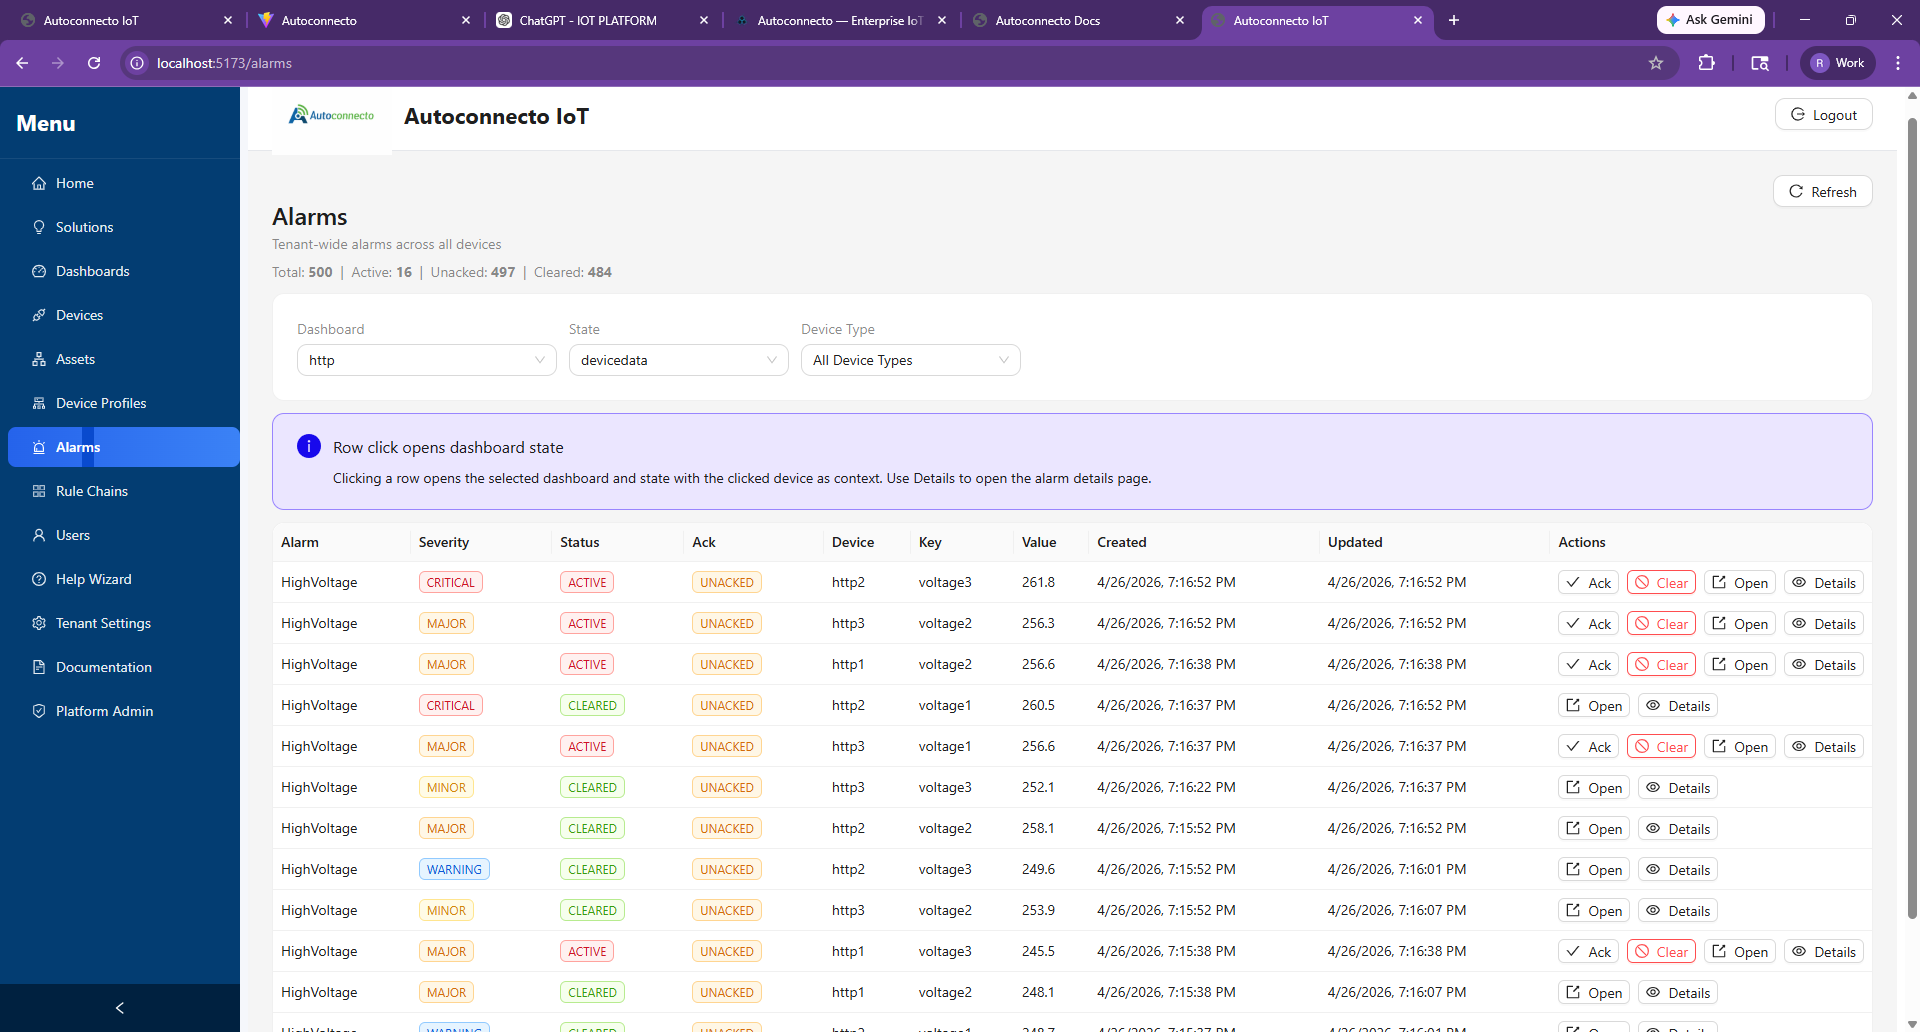
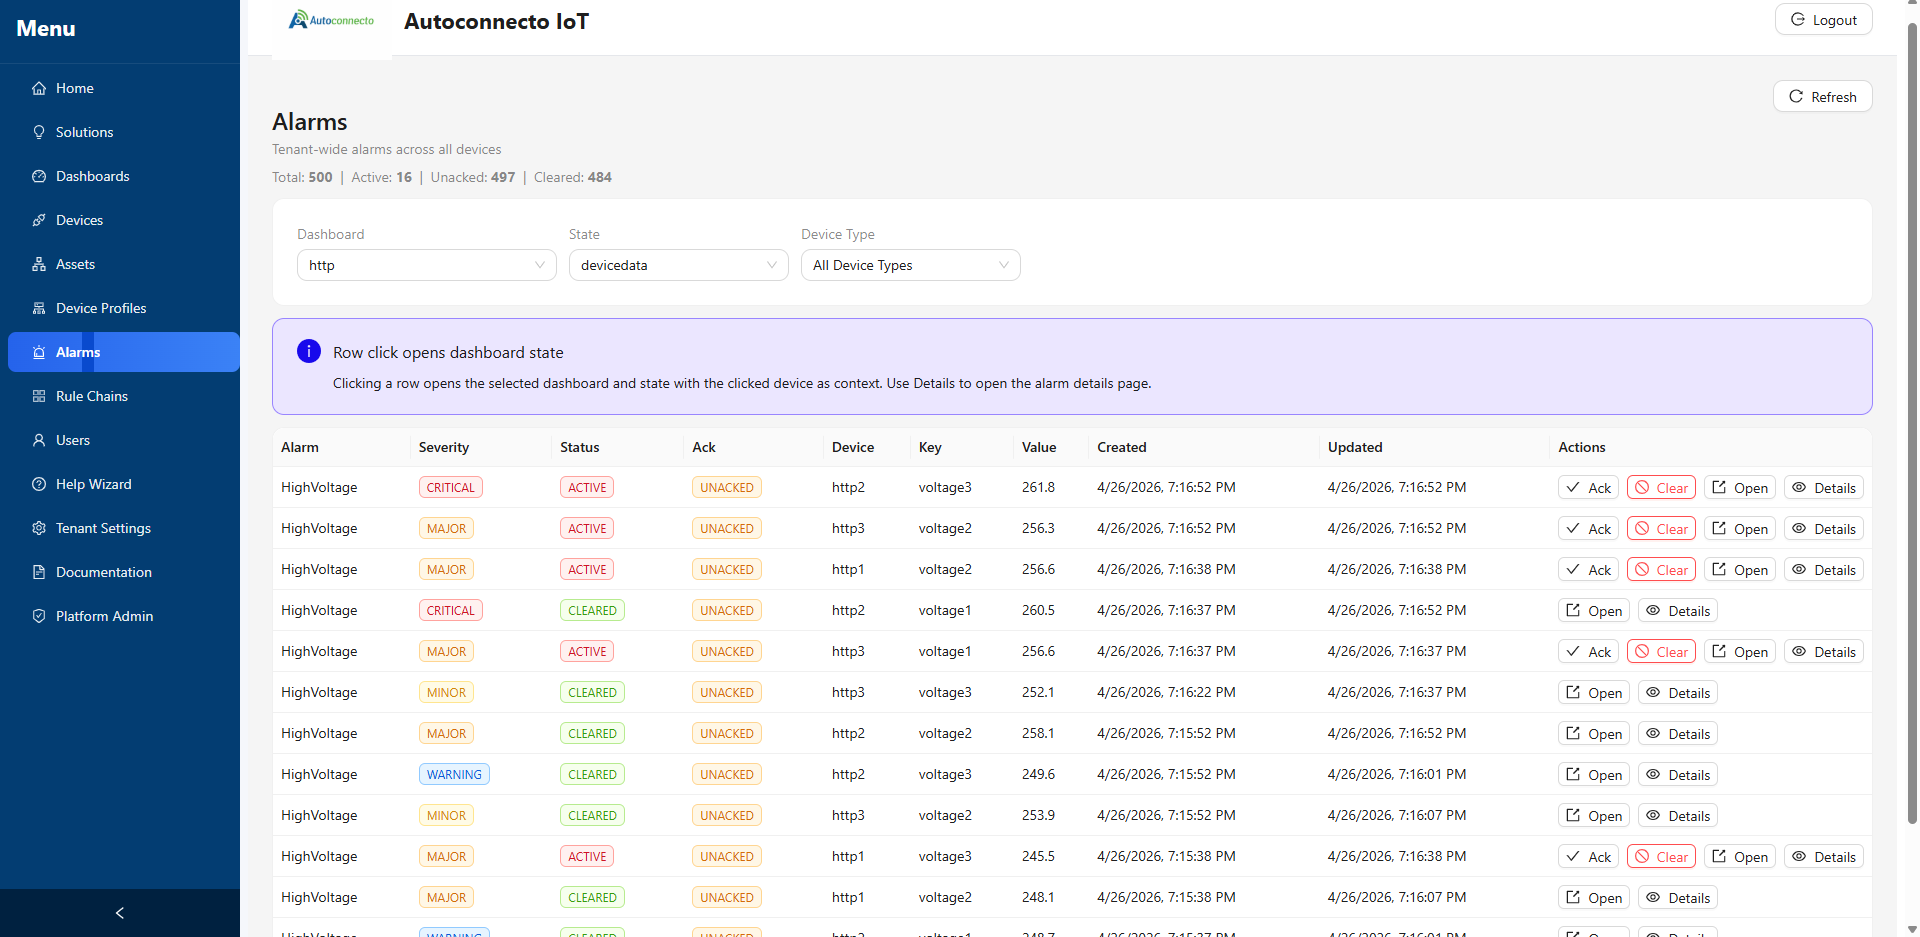
www: replace May product screenshots and finish pricing leftovers.
Crop localhost chrome from eight product PNGs; redact PurpleChilly tenant title and ceo@purplechilly.in. Fix empty () in Business On-Prem blurbs, short og description, trailingSlash + sitemap URLs.

diff --git a/src/app/sitemap.ts b/src/app/sitemap.ts
@@ -9,29 +9,35 @@ export default function sitemap(): MetadataRoute.Sitemap {
   const base = siteOrigin();
   // lastmod = build time (static export). Fragments like /#features are not entries.
   const now = new Date();
+  const withSlash = (path: string) => {
+    if (path === '/') return `${base}/`;
+    const p = path.startsWith('/') ? path : `/${path}`;
+    return `${base}${p.endsWith('/') ? p : `${p}/`}`;
+  };
+
   return [
-    { url: `${base}/`, lastModified: now, changeFrequency: 'weekly', priority: 1.0 },
-    { url: `${base}/product`, lastModified: now, changeFrequency: 'weekly', priority: 0.95 },
-    { url: `${base}/compatible-hardware`, lastModified: now, changeFrequency: 'weekly', priority: 0.9 },
-    { url: `${base}/solutions`, lastModified: now, changeFrequency: 'weekly', priority: 0.95 },
+    { url: withSlash('/'), lastModified: now, changeFrequency: 'weekly', priority: 1.0 },
+    { url: withSlash('/product'), lastModified: now, changeFrequency: 'weekly', priority: 0.95 },
+    { url: withSlash('/compatible-hardware'), lastModified: now, changeFrequency: 'weekly', priority: 0.9 },
+    { url: withSlash('/solutions'), lastModified: now, changeFrequency: 'weekly', priority: 0.95 },
     ...listSolutionSlugs().map((slug) => ({
-      url: `${base}/solutions/${slug}`,
+      url: withSlash(`/solutions/${slug}`),
       lastModified: now,
       changeFrequency: 'weekly' as const,
       priority: 0.9,
     })),
-    { url: `${base}/use-cases`, lastModified: now, changeFrequency: 'weekly', priority: 0.92 },
+    { url: withSlash('/use-cases'), lastModified: now, changeFrequency: 'weekly', priority: 0.92 },
     ...listUseCases().map((u) => ({
-      url: `${base}${u.path}`,
+      url: withSlash(u.path),
       lastModified: now,
       changeFrequency: 'weekly' as const,
       priority: 0.92,
     })),
-    { url: `${base}/esp32-wifi-strongest-ap`, lastModified: now, changeFrequency: 'weekly', priority: 0.88 },
-    { url: `${base}/pricing`, lastModified: now, changeFrequency: 'weekly', priority: 0.9 },
-    { url: `${base}/support`, lastModified: now, changeFrequency: 'monthly', priority: 0.85 },
-    { url: `${base}/export-your-data`, lastModified: now, changeFrequency: 'monthly', priority: 0.8 },
-    { url: `${base}/privacy`, lastModified: now, changeFrequency: 'yearly', priority: 0.3 },
-    { url: `${base}/terms`, lastModified: now, changeFrequency: 'yearly', priority: 0.3 },
+    { url: withSlash('/esp32-wifi-strongest-ap'), lastModified: now, changeFrequency: 'weekly', priority: 0.88 },
+    { url: withSlash('/pricing'), lastModified: now, changeFrequency: 'weekly', priority: 0.9 },
+    { url: withSlash('/support'), lastModified: now, changeFrequency: 'monthly', priority: 0.85 },
+    { url: withSlash('/export-your-data'), lastModified: now, changeFrequency: 'monthly', priority: 0.8 },
+    { url: withSlash('/privacy'), lastModified: now, changeFrequency: 'yearly', priority: 0.3 },
+    { url: withSlash('/terms'), lastModified: now, changeFrequency: 'yearly', priority: 0.3 },
   ];
 }

diff --git a/src/app/pricing/page.tsx b/src/app/pricing/page.tsx
@@ -6,49 +6,26 @@ import { getPublicPlans } from '@/lib/publicPlans';
 import { buildPricingJsonLd } from '@/lib/pricingJsonLd';
 import { shareMeta } from '@/lib/shareMeta';
 import { siteOrigin } from '@/lib/siteOrigin';
-import {
-  formatInr,
-  isFreePlan,
-  isQuoteOnly,
-  planDisplayName,
-  toNullableNumber,
-} from '@/lib/plans';
 
 const baseUrl = siteOrigin();
 
 const plans = getPublicPlans();
-const priceSummary = plans
-  .map((p) => {
-    const name = planDisplayName(p);
-    if (isFreePlan(p)) return `${name} ₹0/mo`;
-    const onetime = toNullableNumber(p.price_onetime_inr);
-    const monthly = toNullableNumber(p.price_monthly_inr);
-    if (onetime != null && onetime > 0 && monthly == null) {
-      return `${name} ${formatInr(onetime)} one-time`;
-    }
-    if (isQuoteOnly(p) && monthly == null) return `${name} quote`;
-    if (monthly != null) return `${name} ${formatInr(monthly)}/mo`;
-    return `${name} quote`;
-  })
-  .join('; ');
 
 const pricingTitle = 'Pricing — Autoconnecto';
-const pricingDescription = (
-  priceSummary
-    ? `INR plans: ${priceSummary}. Hosted and on-prem. DP/s and device caps by plan.`
-    : 'Autoconnecto IoT plans in INR. Hosted Free to Business, on-prem Startup to Scale, Forever licence, Enterprise by quote.'
-).slice(0, 155);
+/** Keep under ~155 chars without cutting mid-price (og/twitter). */
+const pricingDescription =
+  'Autoconnecto INR plans: hosted Free to Business, on-prem Startup to Scale, Forever licence, Enterprise by quote. DP/s and device caps by plan.';
 
 export const metadata: Metadata = {
   title: pricingTitle,
   description: pricingDescription,
   alternates: {
-    canonical: `${baseUrl}/pricing`,
+    canonical: `${baseUrl}/pricing/`,
     types: {
       'application/json': `${baseUrl}/plans.json`,
     },
   },
-  ...shareMeta(baseUrl, '/pricing', pricingTitle, pricingDescription),
+  ...shareMeta(baseUrl, '/pricing/', pricingTitle, pricingDescription),
 };
 
 export default function PricingPage() {

diff --git a/src/lib/plans.ts b/src/lib/plans.ts
@@ -61,14 +61,18 @@ export function formatInr(amount: number | null | undefined): string {
 export function publicPlanDescription(plan: PublicPlan): string | null {
   const raw = (plan.description || "").trim();
   if (!raw) return null;
-  return raw
-    .replace(
-      /\s*;?\s*HA layout issued as nodes=\d+ in the licence file\.?/gi,
-      ""
-    )
-    .replace(/\s{2,}/g, " ")
-    .replace(/\s+([.;])/g, "$1")
-    .trim() || null;
+  return (
+    raw
+      .replace(
+        /\s*;?\s*HA layout issued as nodes=\d+ in the licence file\.?/gi,
+        ""
+      )
+      .replace(/\(\s*\)/g, "")
+      .replace(/\s{2,}/g, " ")
+      .replace(/\s+([.;])/g, "$1")
+      .replace(/\s+,/g, ",")
+      .trim() || null
+  );
 }
 
 export function formatDeviceCap(plan: PublicPlan): string {
